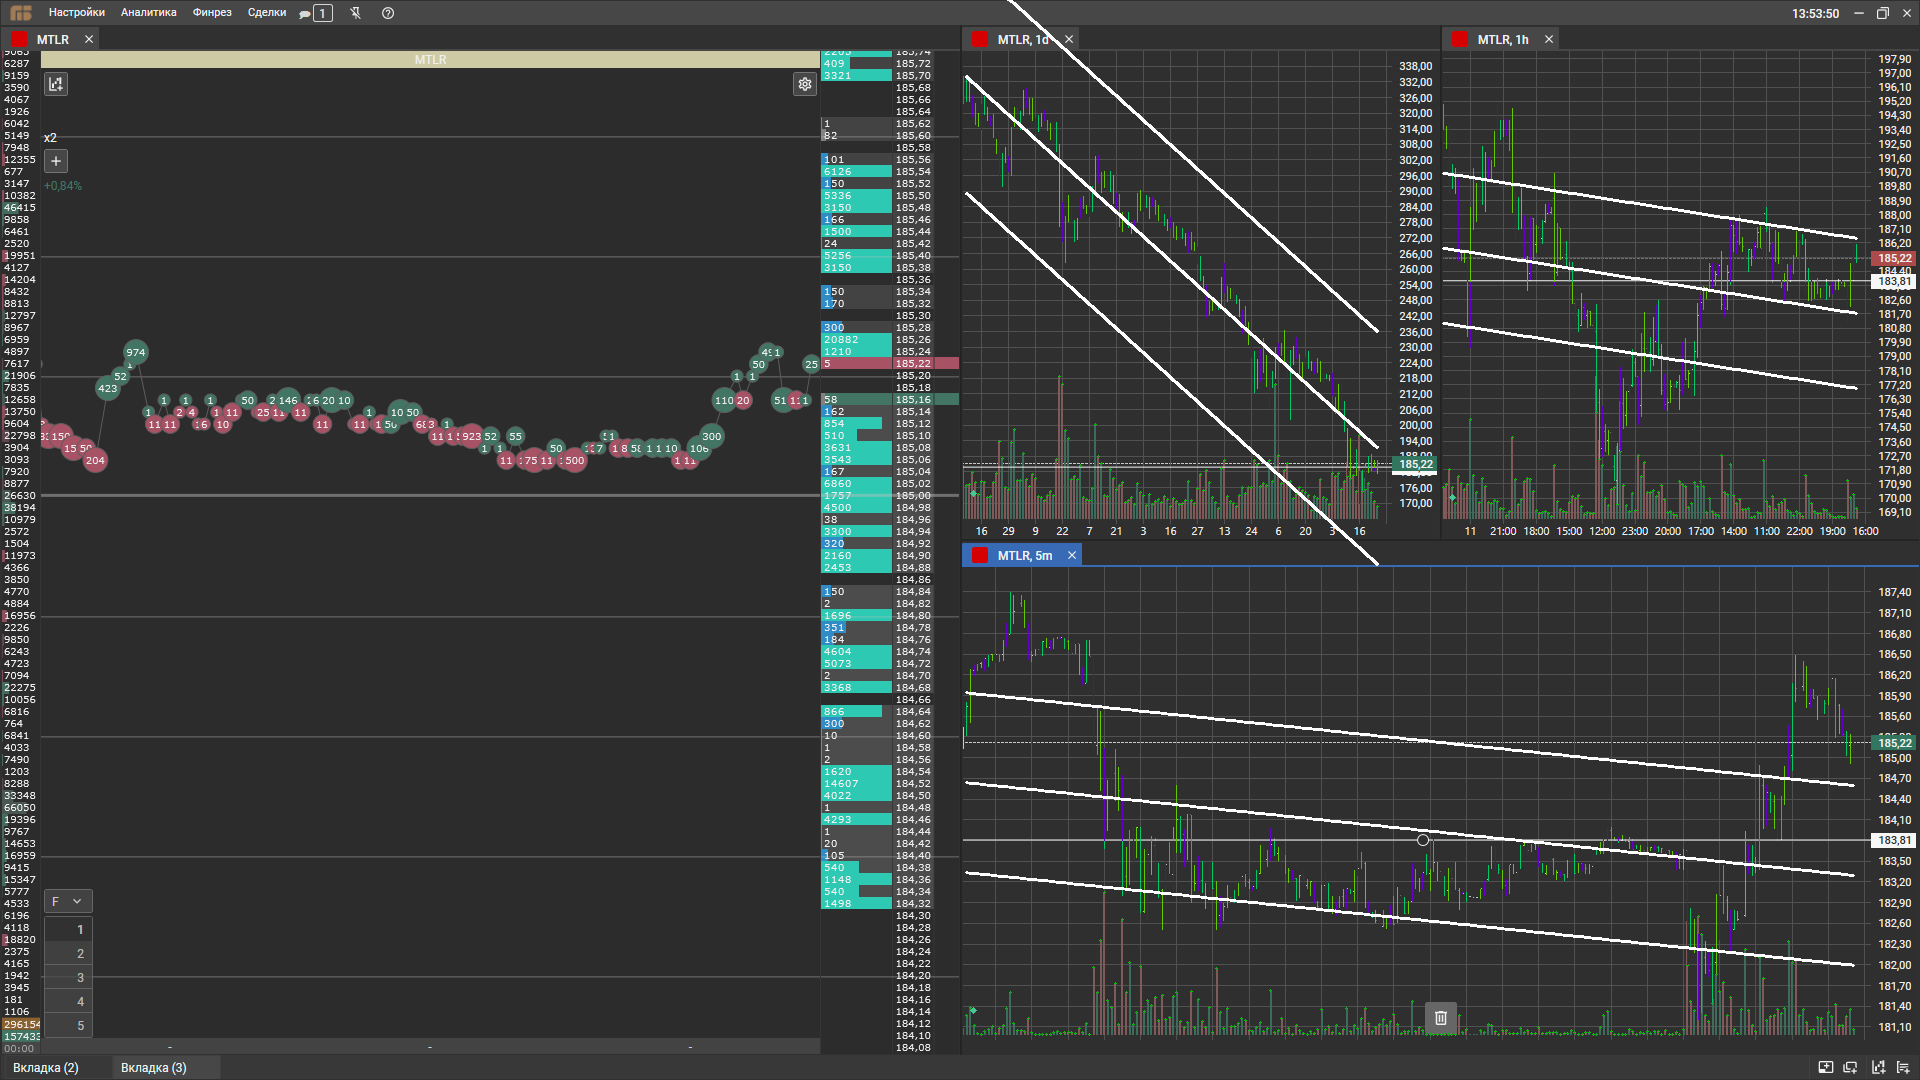
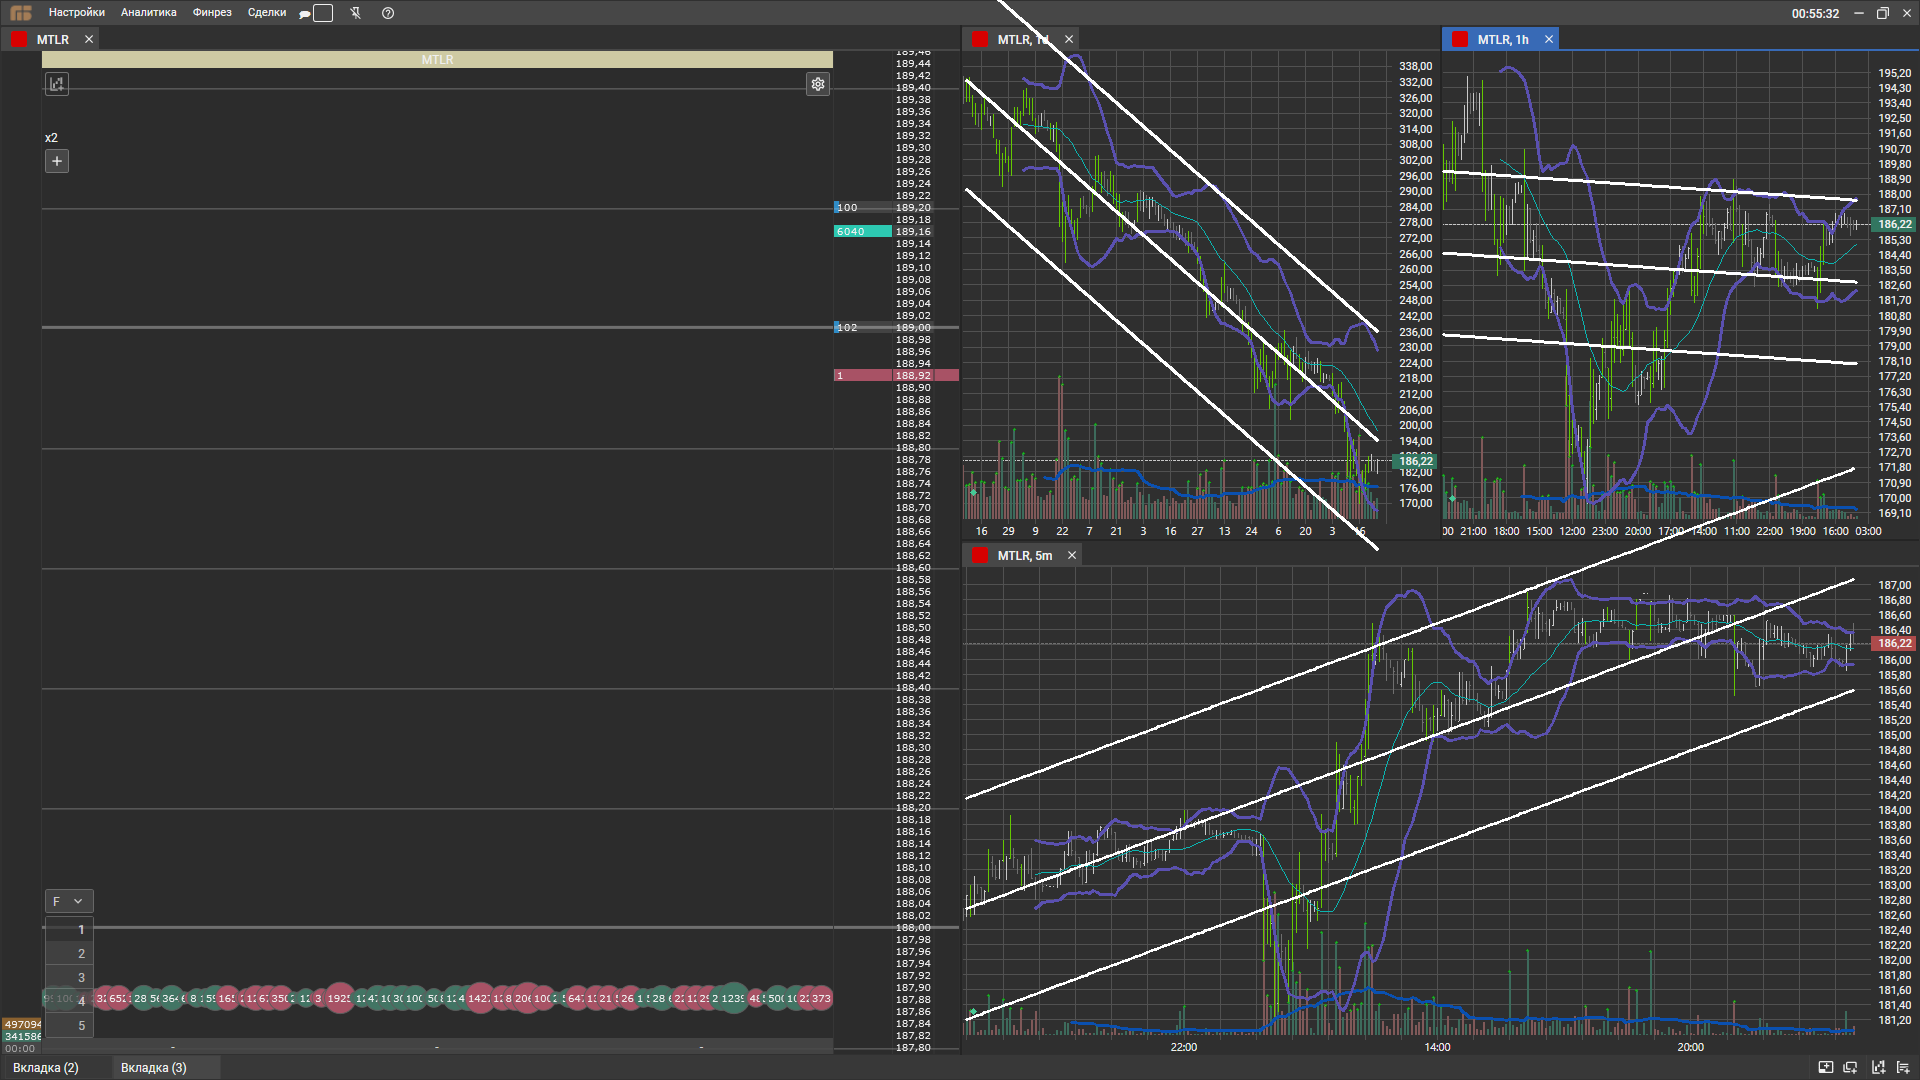
add indicators SMA and BB

diff --git a/visual_traider_v1/traider_bots/help_bots/WorkBot.py b/visual_traider_v1/traider_bots/help_bots/WorkBot.py
@@ -1,10 +1,7 @@
 import cv2
 import numpy as np
 from traider_bots.VisualTraider_v2 import VisualTraider_v2
-from utils.chart_utils.general_v2 import get_candle_mask, get_volume_mask, get_statistic_volume, get_cords_on_mask, get_corners, get_divide_chart, get_xy
-from utils.test_utils.test_draws_funcs import draw_trendlines_v2
-from utils.config import TemplateCandle
-from utils.chart_utils.dtype import HalfBar
+from utils.chart_utils.indicators import get_SMA, get_bollinger_bands
 class WorkBot(VisualTraider_v2):
     def __init__(self, cluster: tuple, dealfeed: tuple, glass: tuple, day: tuple, hour: tuple, minute: tuple, position: tuple, name: str, mode: int = 0) -> None:
         super().__init__(cluster, dealfeed, glass, day, hour, minute, position, name, mode)
@@ -25,13 +22,35 @@ class WorkBot(VisualTraider_v2):
             (0,200,100),
             (200,0,100)
         )
-        
-        for i in range(len(half_bars)):
-            hpt,lpt,vpt = half_bars[i].to_img_cords(change_cords) 
-            cv2.circle(img,vpt,1,(0,200,0))
-            cv2.line(img,hpt,lpt,colors[i%3],1)
-
         mean_volume = self._get_mean(volume_cords)
+        vpts = []
+        mpts = []
+        # lpts = []
+        # hpts = []
+        for i in range(len(half_bars)):
+            hpt,lpt,vpt = half_bars[i].to_img_cords(change_cords)
+            mpt = change_cords(half_bars[i].mpt)
+            mpts.append(mpt)
+            vpts.append(vpt)
+            # lpts.append(lpt)
+            # hpts.append(hpt)
+            if half_bars[i].is_big_volume(mean_volume[1]): 
+                cv2.circle(img,vpt,1,(0,200,0))
+                cv2.line(img,hpt,lpt,colors[1],1)
+        period = 27
+        V_sma = get_SMA(np.array(vpts),period)
+        # m_sma = get_SMA(np.array(mpts),period)
+        m_sma,bbu,bbd = get_bollinger_bands(np.array(mpts))
+        # print(m_sma[0])
+        # print(bbu[0])
+        # l_sma = get_SMA(np.array(lpts),period)
+        # h_sma = get_SMA(np.array(hpts),period)
+        cv2.polylines(img,[V_sma],False,(176,80,10),2)
+        cv2.polylines(img,[m_sma],False,(176,180,10),1)
+        cv2.polylines(img,[bbu],False,(176,80,90),2)
+        cv2.polylines(img,[bbd],False,(176,80,90),2)
+        # cv2.polylines(img,[l_sma],False,(176,180,10),2)
+        # cv2.polylines(img,[h_sma],False,(176,80,110),2)
         mean_volume = change_cords(mean_volume)
         cv2.circle(img,mean_volume,1,(150,200,70),3)
         points = self._get_points(half_bars)

diff --git a/visual_traider_v1/utils/chart_utils/indicators.py b/visual_traider_v1/utils/chart_utils/indicators.py
@@ -1,16 +1,42 @@
 import numpy as np
+import numpy.typing as npt
 from utils.ML_utils.LR_utils import get_linear_regress,get_points_linear_reg
-def get_SMA(points):
+
+def get_SMA(points:npt.NDArray,step) -> npt.NDArray:
     moving_averages = []
-    cum_sumx = np.cumsum(points[:,0])
-    cum_sumy = np.cumsum(points[:,1])
-    i = 1 
+    # cum_sumx = np.cumsum(points[:,0])
+    i = step 
     while i <= len(points):
-        window_averagex = cum_sumx[i-1] // i *2
-        window_averagey = cum_sumy[i-1] // i
+        slice = points[i-step:i,1]
+        cum_sumy = np.sum(slice)
+        window_averagex = points[i-1][0]
+        window_averagey = cum_sumy // step
         moving_averages.append([window_averagex,window_averagey])
         i += 1
     return np.array(moving_averages)
+
+def get_bollinger_bands(points:npt.NDArray) -> tuple[npt.NDArray]:
+    sma20 = []
+    bbu = []
+    bbd = []
+    step = 20
+    i = step 
+    while i <= len(points):
+        slice = points[i-step:i,1]
+        cum_sumy = np.sum(slice)
+        window_averagex = points[i-1][0]
+        window_averagey = cum_sumy // step
+        sma20.append([window_averagex,window_averagey])
+        std = int(np.std(slice))*2
+        bbu_y = window_averagey - std
+        bbd_y = window_averagey + std
+        bbu.append([window_averagex,bbu_y])
+        bbd.append([window_averagex,bbd_y])
+        i += 1
+    sma20 = np.array(sma20)
+    bbu = np.array(bbu)
+    bbd = np.array(bbd)
+    return sma20,bbu,bbd
 
 def SA_point(points):
     return (np.average(points[:,0],axis=0).astype(np.int32),np.average(points[:,1],axis=0).astype(np.int32))

diff --git a/visual_traider_v1/utils/chart_utils/dtype.py b/visual_traider_v1/utils/chart_utils/dtype.py
@@ -6,11 +6,14 @@ class HalfBar:
         self.yv = yv
         self.hpt = (self.x,self.yh)
         self.lpt = (self.x,self.yl)
+        self.mpt = (self.x,(self.yh + self.yl)//2)
         self.vpt = (self.x,self.yv)
     
     def __repr__(self) -> str:
         return f'HalfBar x: {self.x} y_high: {self.yh}'
     
+    def is_big_volume(self,mean):
+        return self.yv < mean
 
     def to_img_cords(self,func):
         hpt = func(self.hpt)

diff --git a/visual_traider_v1/test.py b/visual_traider_v1/test.py
@@ -10,7 +10,12 @@ import sys
 import keyboard
 # sleep(5)
 # pag.screenshot('Screen.png')
-print(10+int(None))
+# print(10+int(None))
+a = np.array([[1,2],[3,4]])
+b = a[:,1:]
+b += 10
+b = np.hstack([a[:,:1],b])
+print(b)
 # img = cv2.imread('./mask.png')
 # img = cv2.cvtColor(img,cv2.COLOR_BGR2GRAY)
 # print(img.tolist())
